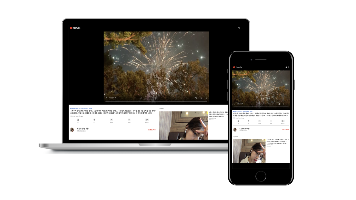
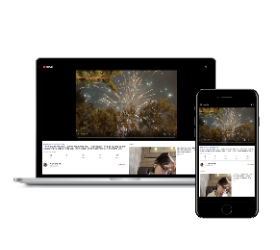
CSS : Work

diff --git a/style.css b/style.css
@@ -101,6 +101,7 @@ p {
   align-items: center;
   color: var(--color-black);
   padding: 10px;
+  z-index: 999;
 }
 
 .navbar__logo {
@@ -297,4 +298,103 @@ p {
 .tools,
 .etc {
   padding: 20px;
+}
+
+/* Work */
+.work__categories {
+  margin: 40px;
+}
+
+.category__btn {
+  border: 1px solid var(--color-dark-white);
+  border-radius: var(--size-border-radius);
+  font-size: var(--font-regular);
+  padding: 8px 48px;
+}
+
+.category__btn:active,
+.category__btn:hover {
+  background-color: var(--color-skyblue);
+  color: var(--color-white);
+}
+
+.category__btn:active .category__count,
+.category__btn:hover .category__count {
+  opacity: 1;
+  top: 0;
+}
+
+.category__count {
+  background-color: var(--color-orange);
+  border-radius: 50%;
+  color: var(--color-white);
+  width: 24px;
+  height: 24px;
+  line-height: 24px;
+  display: inline-block;
+  position: relative;
+  top: -20px;
+  left: 4px;
+  opacity: 0;
+  transition: all var(--animation-duration) ease-in;
+}
+
+.work__projects {
+  display: flex;
+  flex-wrap: wrap;
+  justify-content: center;
+}
+
+.project {
+  position: relative;
+  display: flex;
+  justify-content: center;
+  align-items: center;
+  width: 280px;
+  height: 250px;
+  margin: 2px;
+  background-color: var(--color-light-white);
+}
+
+.project__img {
+  width: 280px;
+  height: 250px;
+  max-width: 100%;
+  max-height: 100%;
+}
+
+.project__description {
+  position: absolute;
+  background-color: var(--color-black);
+  display: flex;
+  flex-direction: column;
+  justify-content: center;
+  width: 100%;
+  height: 100%;
+  top: 0;
+  left: 0;
+  opacity: 0;
+  transform: translateY(10px);
+  animation: all var(--animation-duration) ease-in;
+}
+
+.project:hover .project__description {
+  opacity: 0.8;
+  transform: translateY(0px);
+}
+
+.project__description h3 {
+  color: var(--color-white);
+}
+
+.project__description h3:after {
+  content: '';
+  display: block;
+  position: relative;
+  left: 50%;
+  width: 25px;
+  height: 2px;
+  margin-left: -12px;
+  margin-top: 8px;
+  background-color: var(--color-dark-white);
 }
